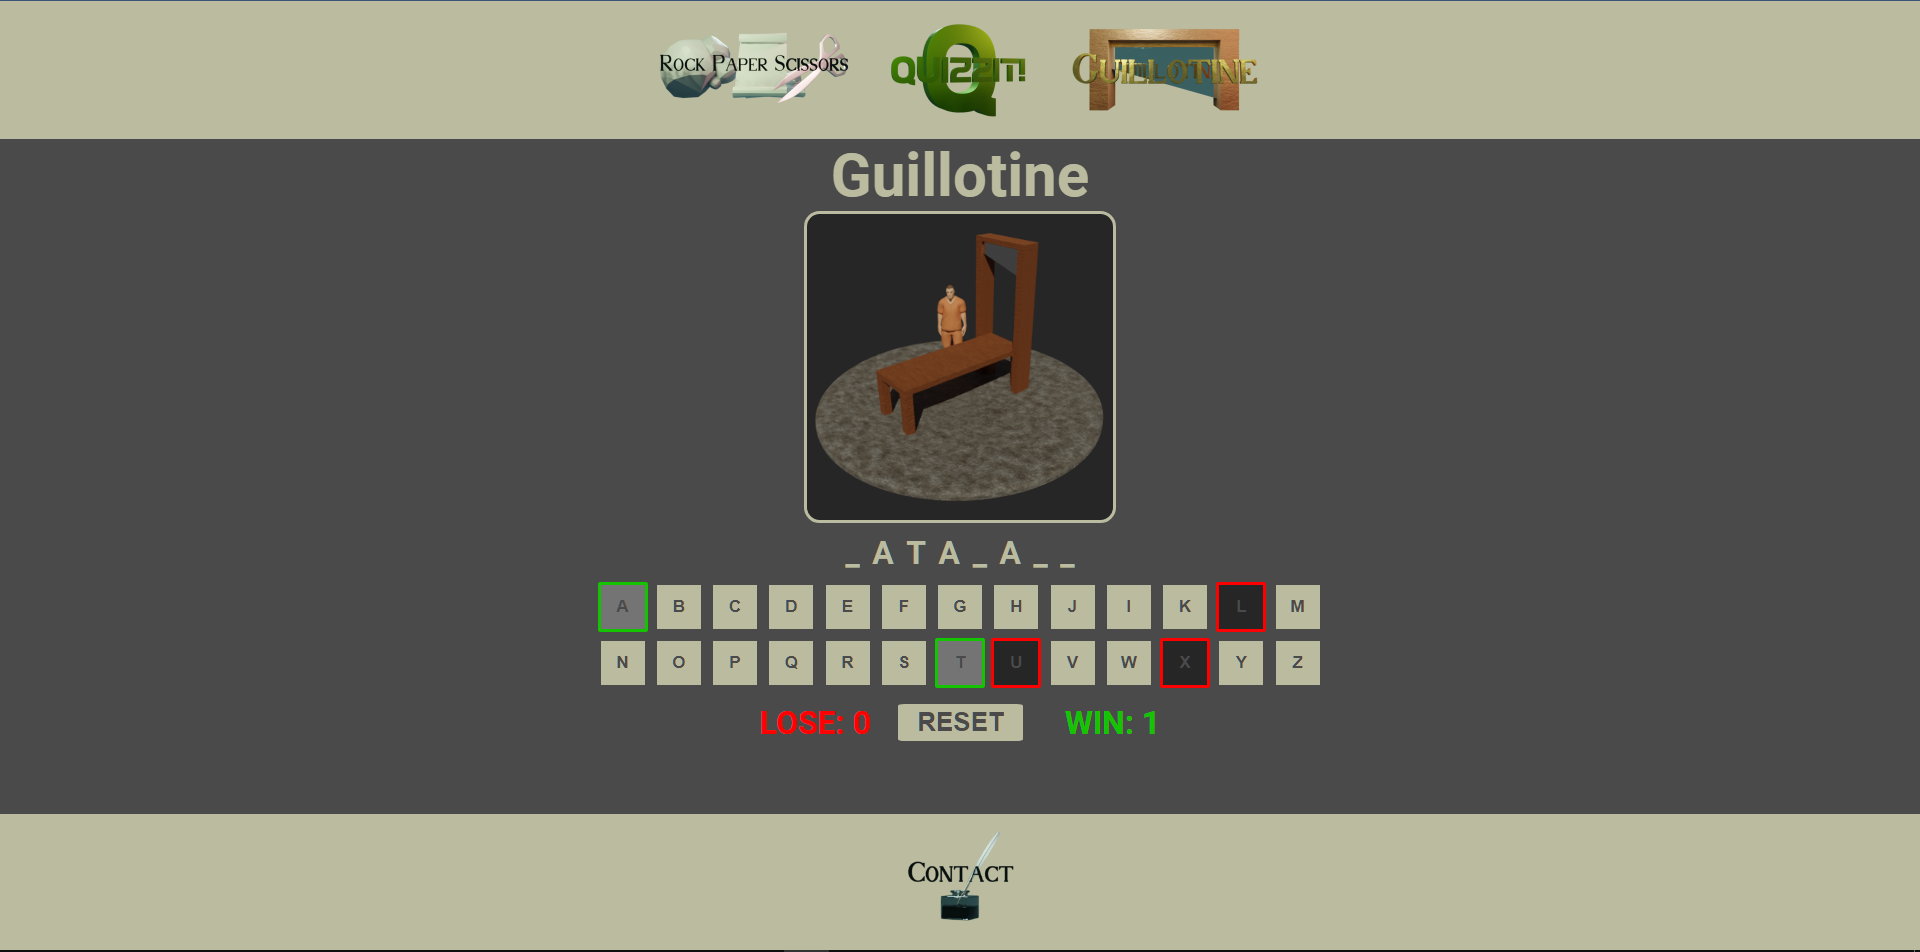
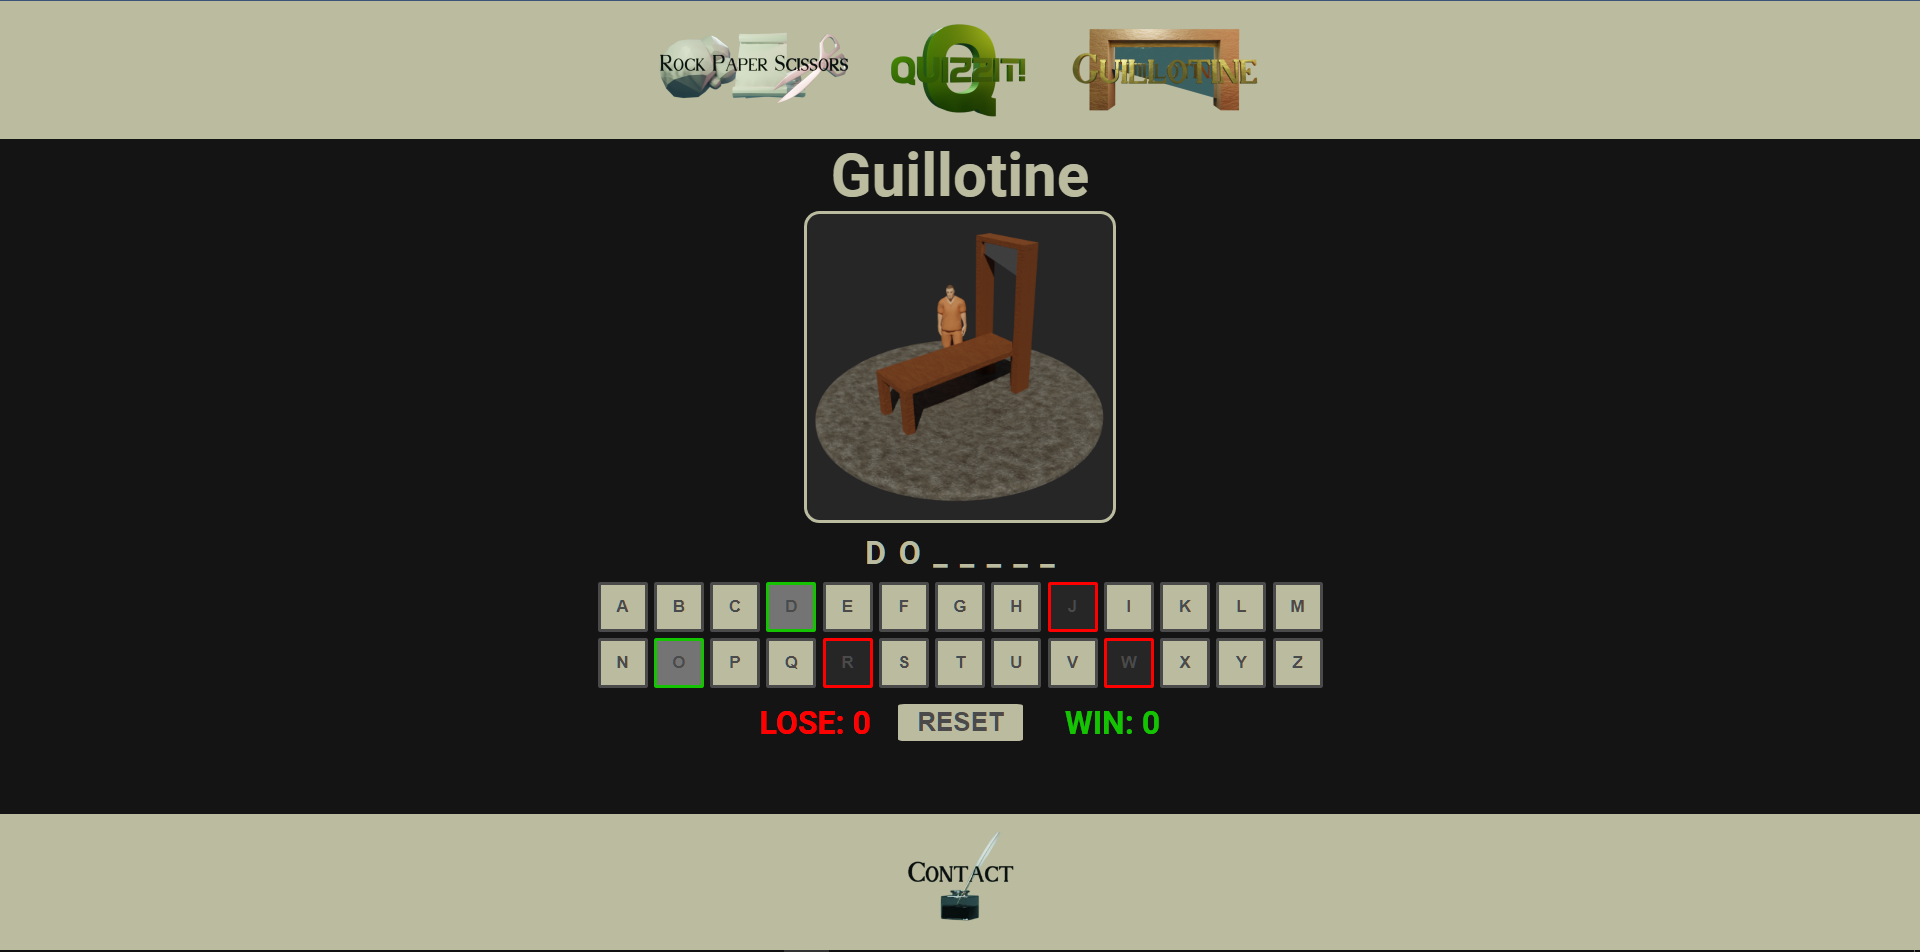
updated readme to reflect recent changes in guillotine interface and colour scheme

diff --git a/README.md b/README.md
@@ -164,7 +164,7 @@ The website consists of five pages containing 9 seperate features.
 - user stories covered: 1, 7
 
 <details><summary>Header image</summary>
-<img src="docs/features/header.webp">
+<img src="docs/features/ft_header.webp">
 </details>
 
 ### Footer
@@ -239,7 +239,8 @@ The website consists of five pages containing 9 seperate features.
 - The keyboard visually represents wich letters have been guessed 
 and wether they where right or wrong. Green borders for correct guesses and red for incorrect ones.
 - Every correct guess fills in the appropriate letters in the space below the main image until the entire word is guessed and the game is won.
-- Every incorrect guess progresses a sequence of images displayed in the center of the screen until the guillotine drops and the game is lost. 
+- Every incorrect guess progresses a sequence of images displayed in the center of the screen until the guillotine drops and the game is lost.
+- Once the round is lost or won the keyboard will dissapear so no new letters can be chosen until the game is reset.
 - The 'reset' button clears the game and generates a new word. 
 - user stories covered: 2, 3, 8, 9
 
